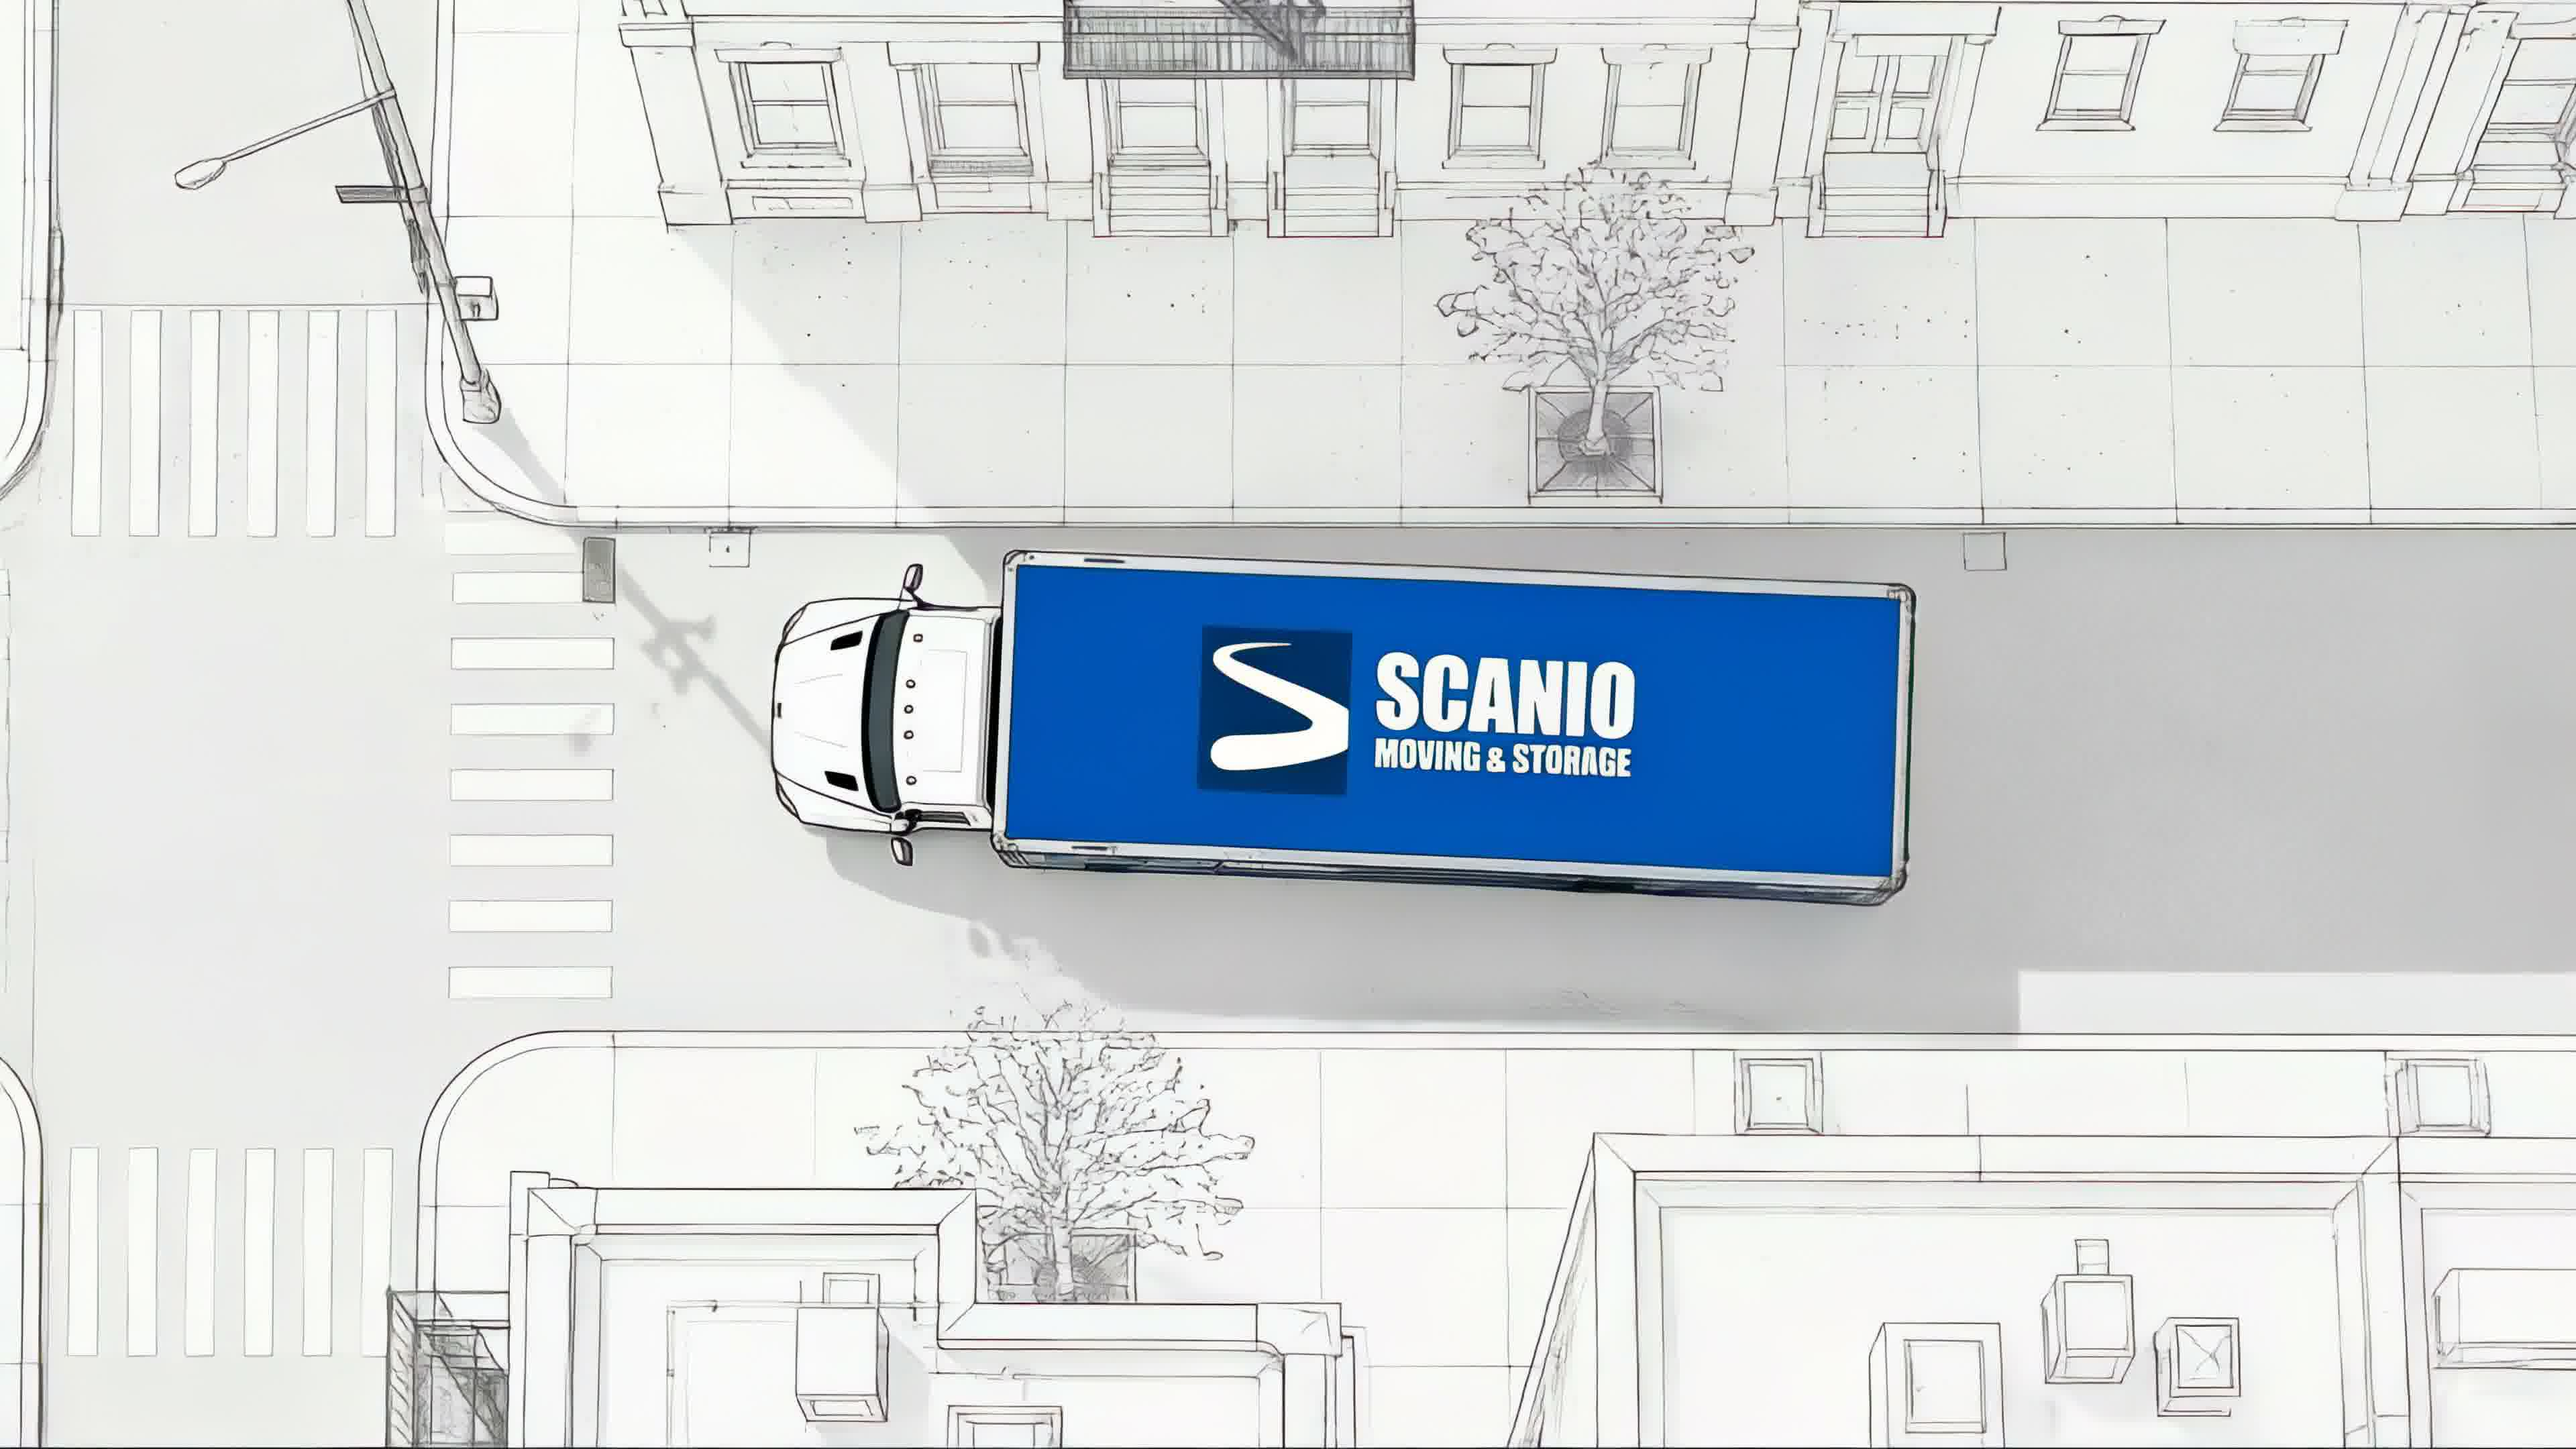
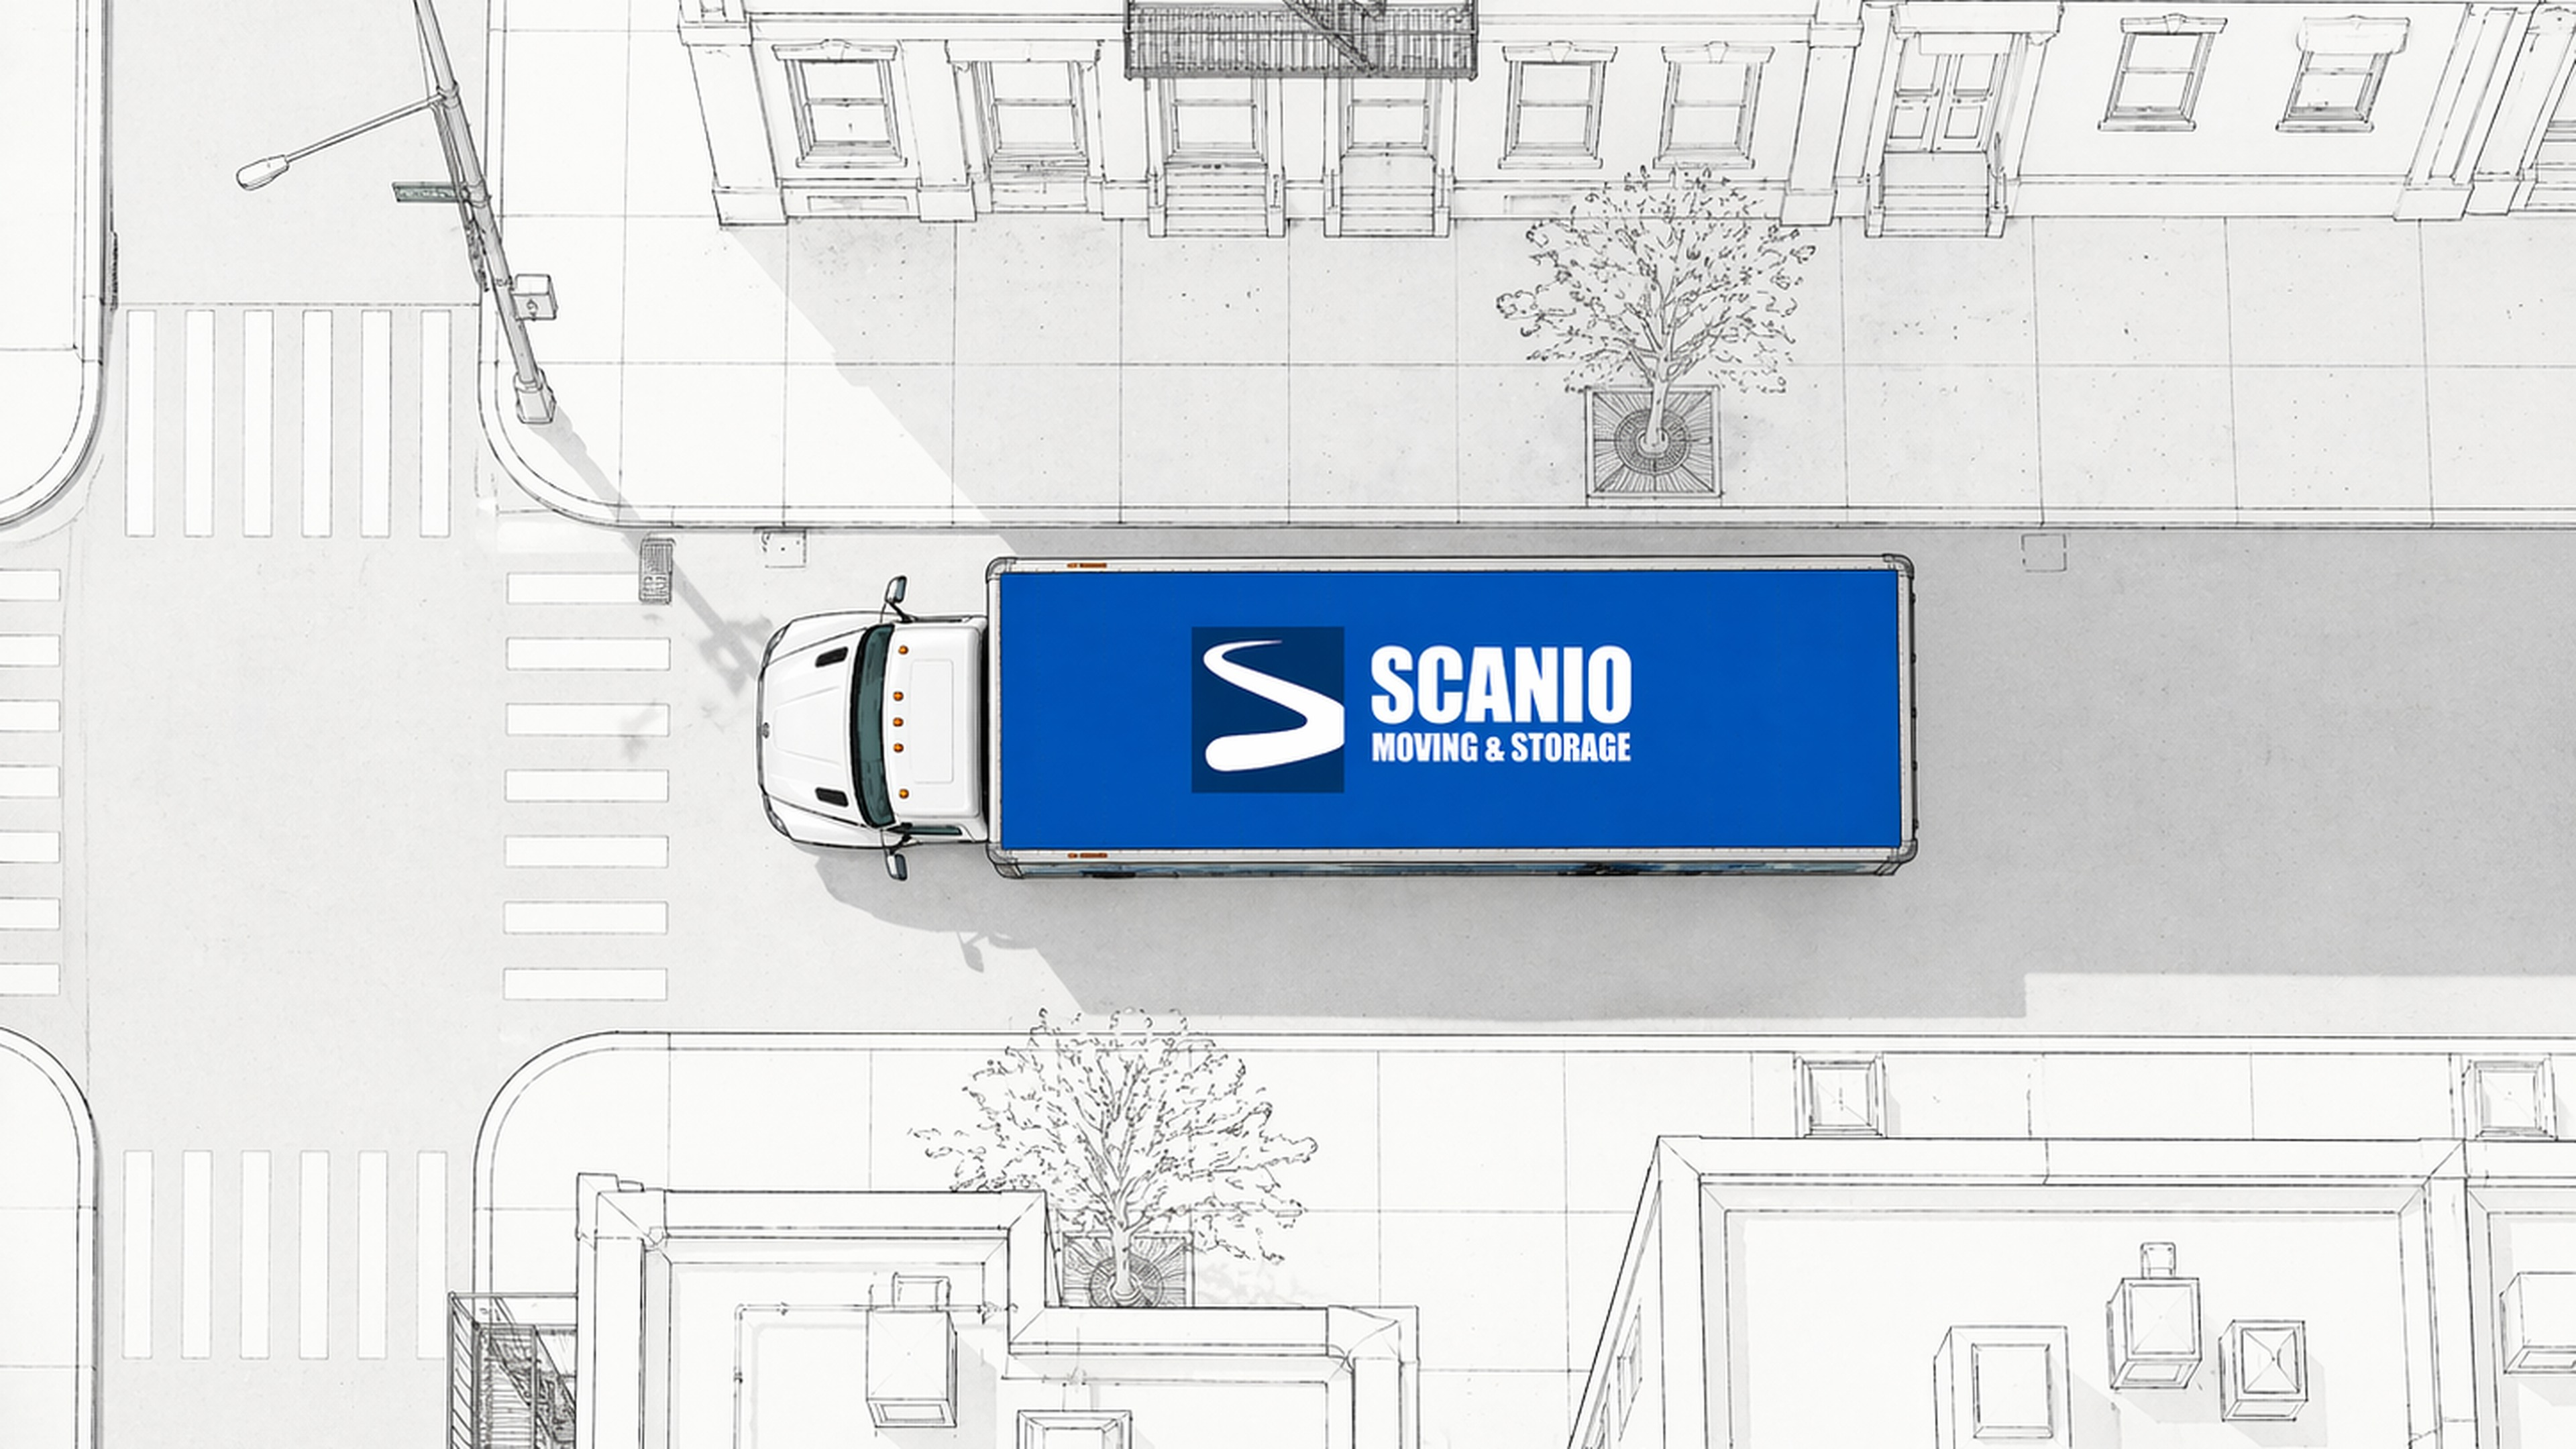
Trim tail: drop 10 filler frames, keep branded aerial as final frame
Removed frames 182-191 and relocated branded end render (was 192) to 182.
Frame count 192 -> 182.

Changed region(s): [[0.0, 0.0, 1.0, 0.6514], [0.0, 0.6514, 1.0, 1.0], [0.2188, 0.4963, 0.25, 0.5273]]

diff --git a/src/app/page.tsx b/src/app/page.tsx
@@ -66,7 +66,7 @@ const testimonials = [
   },
 ];
 
-const TRUCK_FRAME_COUNT = 192;
+const TRUCK_FRAME_COUNT = 182;
 
 function TruckScrollHero() {
   const sectionRef = useRef<HTMLElement>(null);
